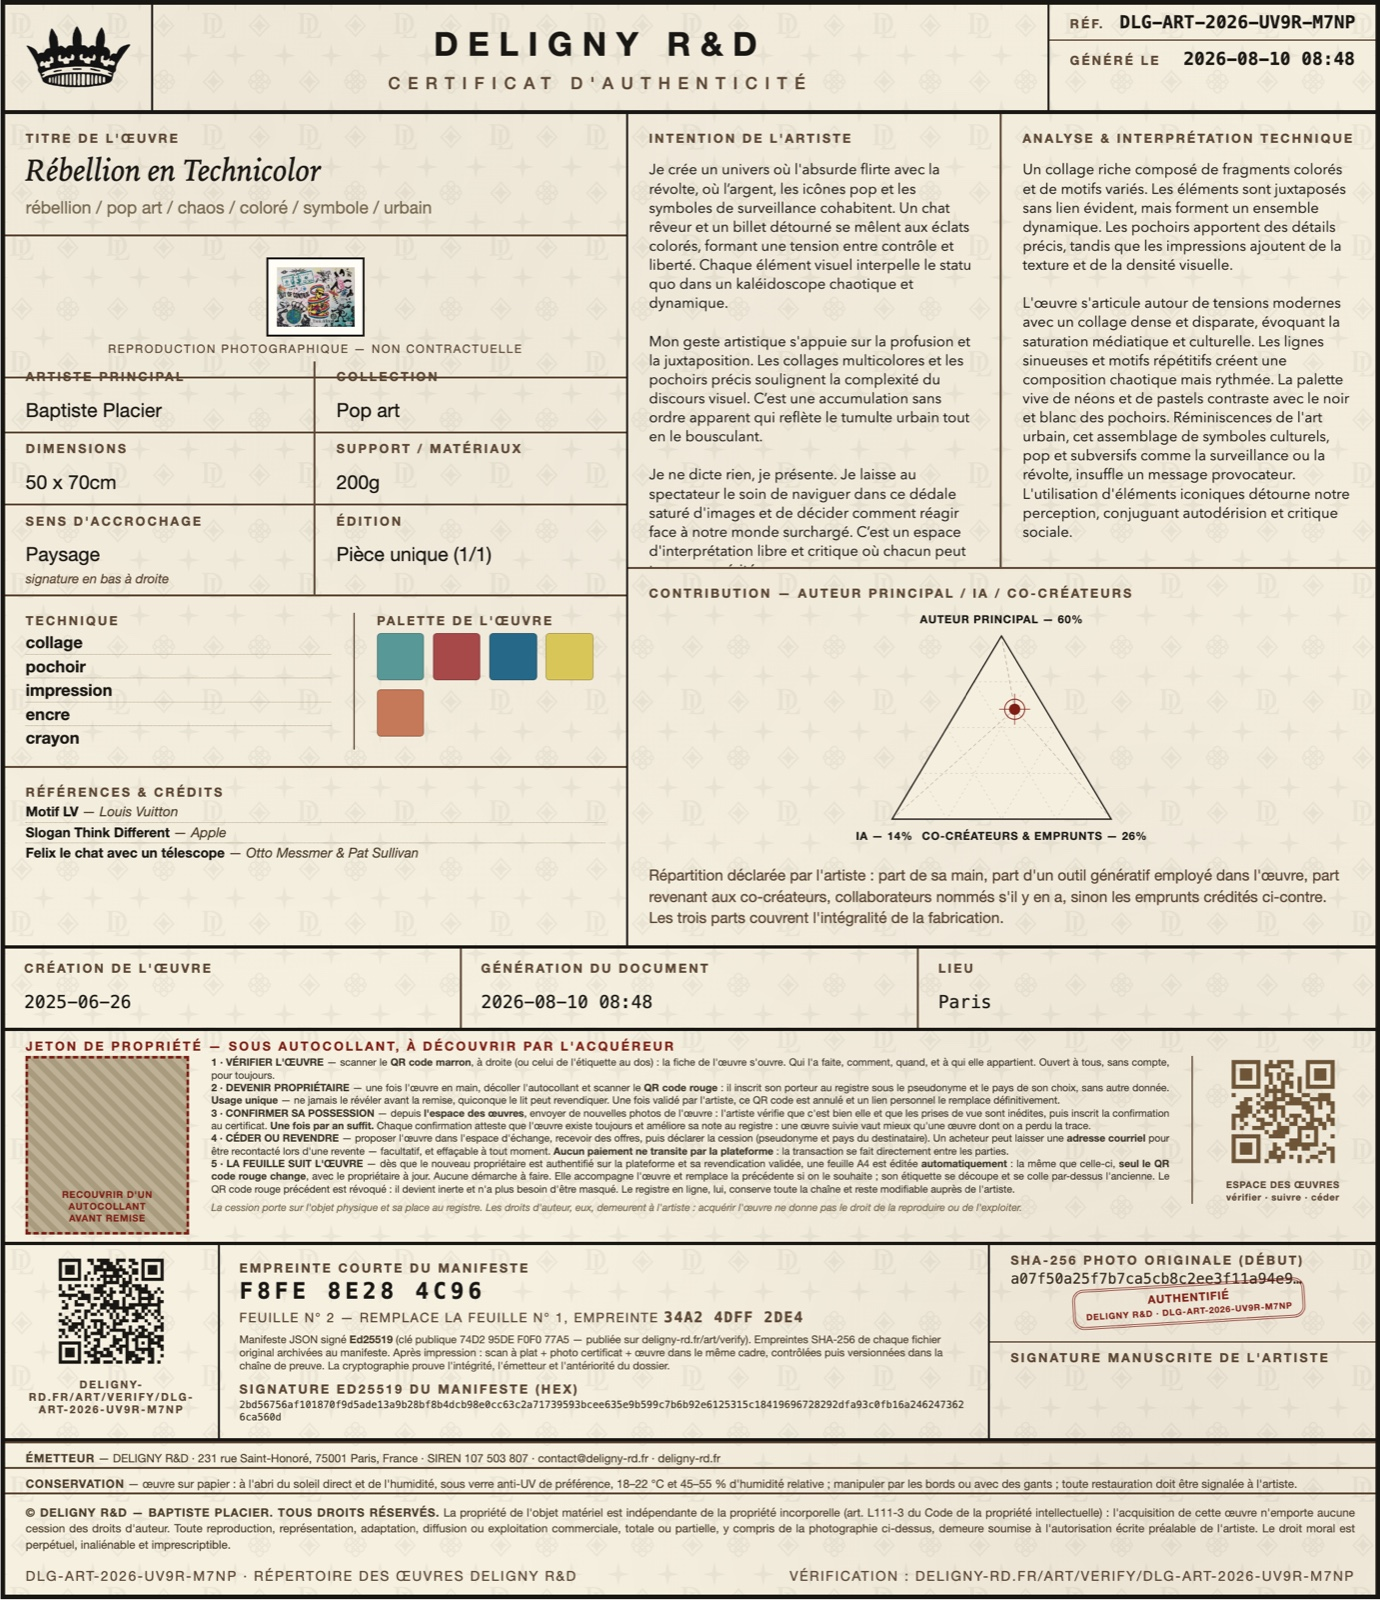
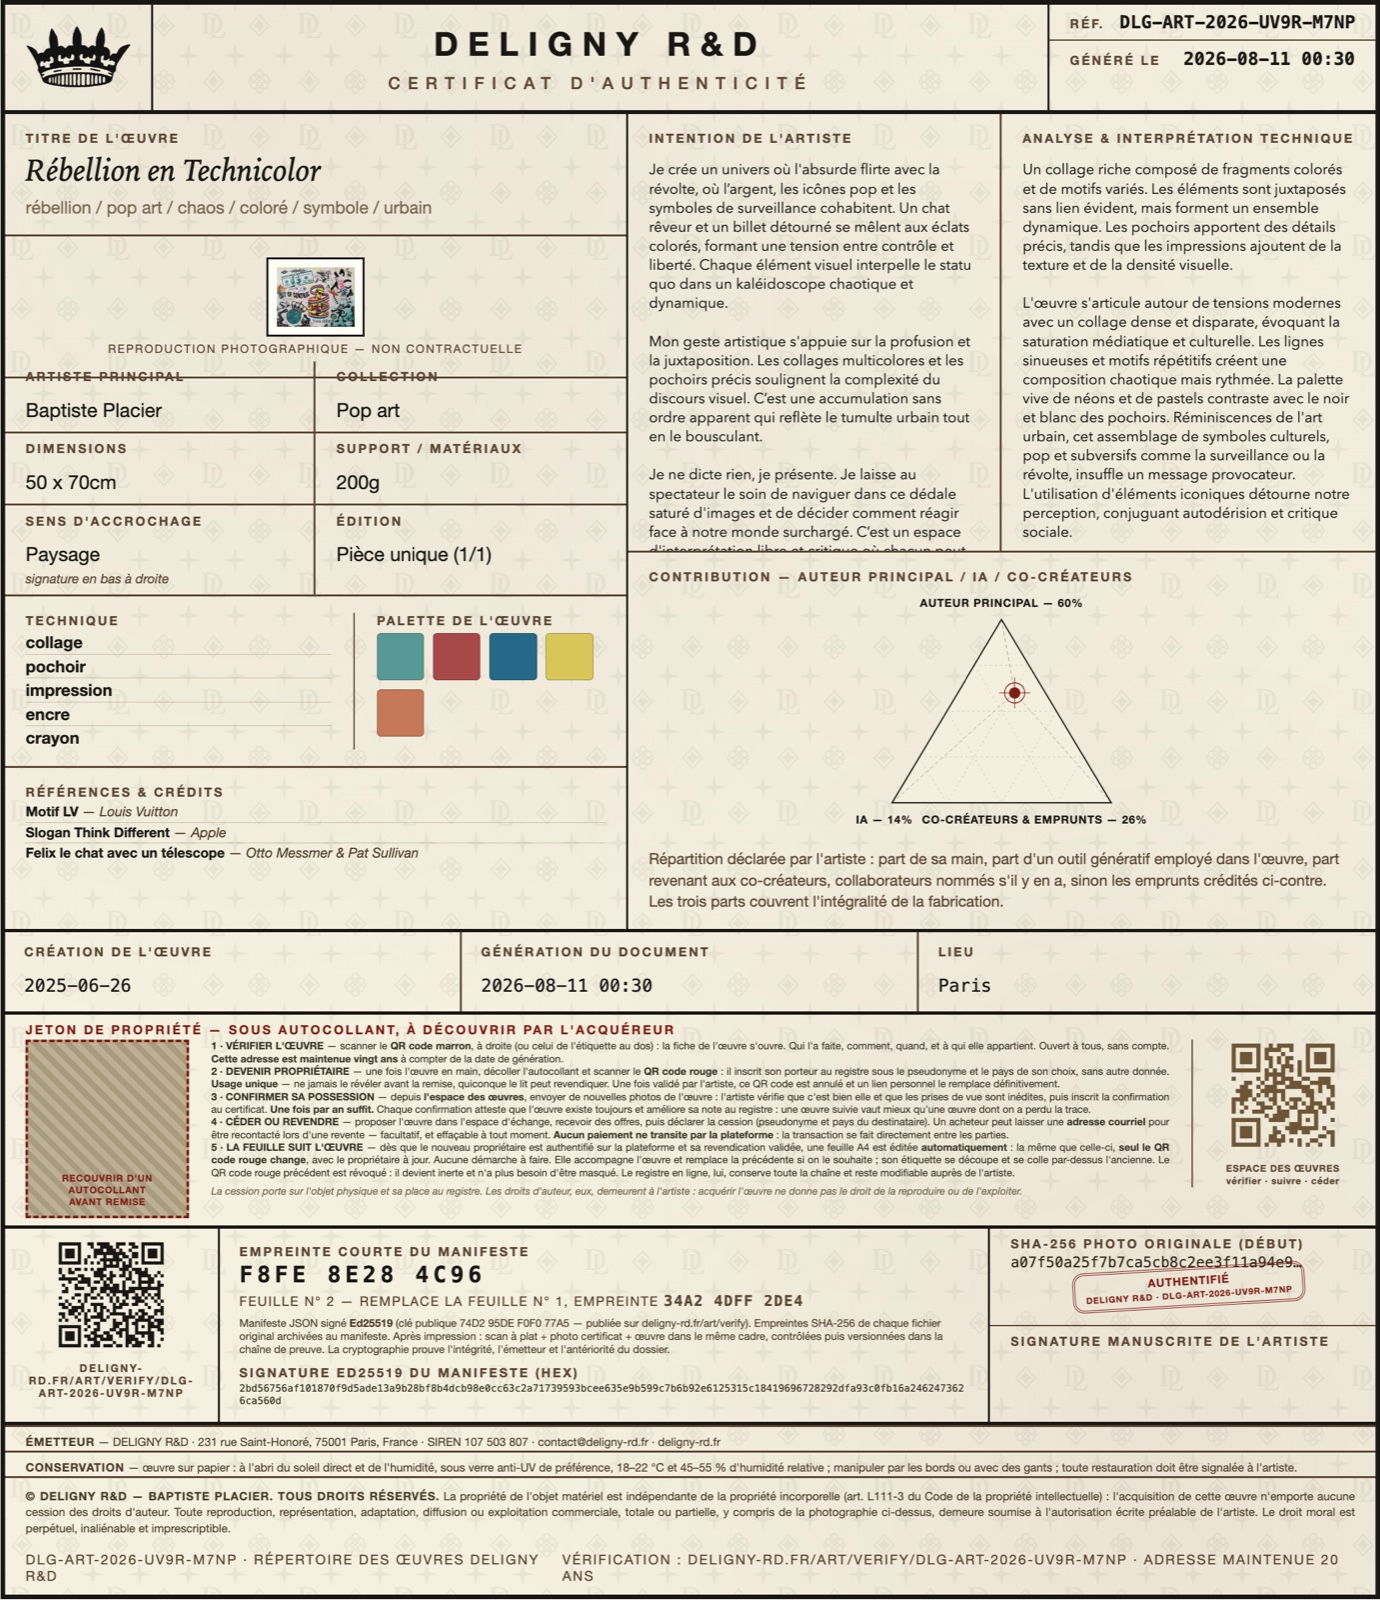
art : engagement de pérennité des adresses de vérification
L'adresse imprimée sur le cartouche et gravée dans ses QR est maintenue
vingt ans, sans déplacement ni redirection. Écrit sur le document remis
et sur la fiche publique.

Changed region(s): [[0.0, 0.4688, 0.9971, 1.0], [0.4674, 0.3438, 0.8413, 0.4688]]

diff --git a/art/verify/DLG-ART-2026-UV9R-M7NP/index.html b/art/verify/DLG-ART-2026-UV9R-M7NP/index.html
@@ -132,6 +132,12 @@ Je ne dicte rien, je présente. Je laisse au spectateur le soin de naviguer dans
 prouve l'intégrité, l'émetteur et l'antériorité du dossier de preuve — pas, à elle seule, la véracité absolue
 de la déclaration d'auteur. Chaîne de preuve : photo originale → empreintes → manifeste signé → certificat
 imprimé → scan + photo certificat&nbsp;+&nbsp;œuvre, versionnés et chaînés par hachage.</div>
+<div class="note" style="border-top:none;padding-top:0;margin-top:10px">
+<b>Pérennité de cette adresse.</b> L'adresse de cette page est imprimée sur le cartouche
+de l'œuvre et gravée dans ses QR codes. DELIGNY R&amp;D s'engage à la maintenir accessible
+<b>vingt ans</b> à compter de la date de génération du certificat. Elle ne sera ni déplacée
+ni redirigée : un cartouche imprimé aujourd'hui reste vérifiable sans que son porteur ait
+la moindre démarche à faire.</div>
 <script>
 /* Attention mesurée anonymement : ni IP, ni cookie. Le fuseau du navigateur est
    la seule indication de région ; la durée est envoyée au départ de la page. */
